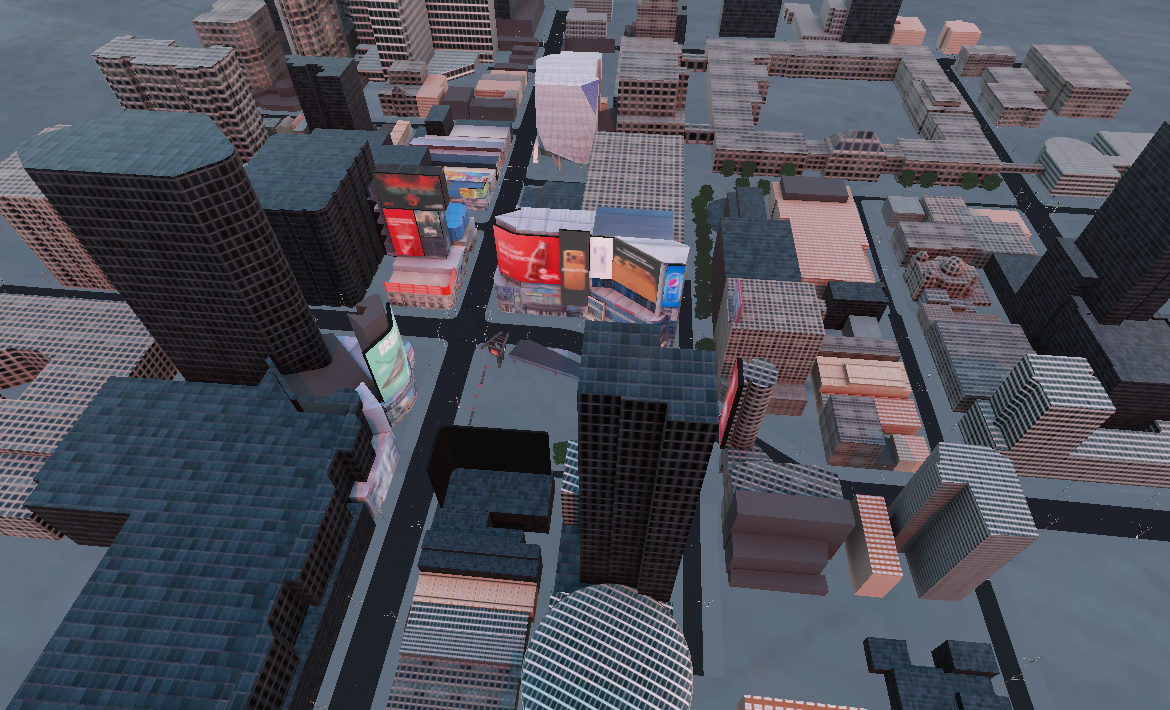
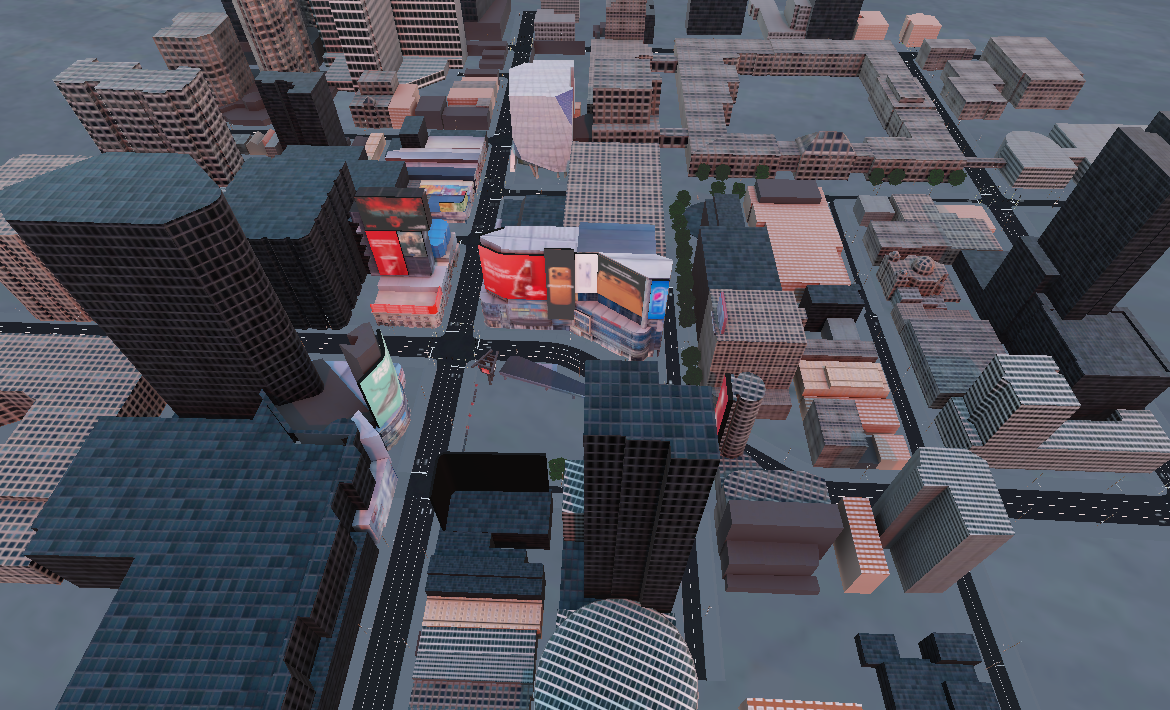
remove decal draw limit in screenshots

diff --git a/simulation/Assets/_Project/Editor/SceneCaptureEditor.cs b/simulation/Assets/_Project/Editor/SceneCaptureEditor.cs
@@ -1,7 +1,9 @@
 using System;
+using System.Collections.Generic;
 using System.IO;
 using UnityEditor;
 using UnityEngine;
+using UnityEngine.Rendering.Universal;
 
 namespace VRDowntownDriving.Editor
 {
@@ -46,8 +48,22 @@ namespace VRDowntownDriving.Editor
             var width = renderTexture.width;
             var height = renderTexture.height;
 
+            // Temporarily remove draw distance limit on all decal projectors so
+            // they appear in the screenshot regardless of camera distance.
+            var decals = UnityEngine.Object.FindObjectsByType<DecalProjector>(FindObjectsInactive.Include, FindObjectsSortMode.None);
+            var savedDistances = new Dictionary<DecalProjector, float>(decals.Length);
+            foreach (var d in decals)
+            {
+                savedDistances[d] = d.drawDistance;
+                d.drawDistance = float.MaxValue;
+            }
+
             // Render fresh content into cam.targetTexture (renderTexture)
             cam.Render();
+
+            // Restore decal draw distances
+            foreach (var d in decals)
+                d.drawDistance = savedDistances[d];
 
             // Blit into a temporary sRGB texture so ReadPixels gets
             // gamma-corrected values matching what the Scene view displays.
